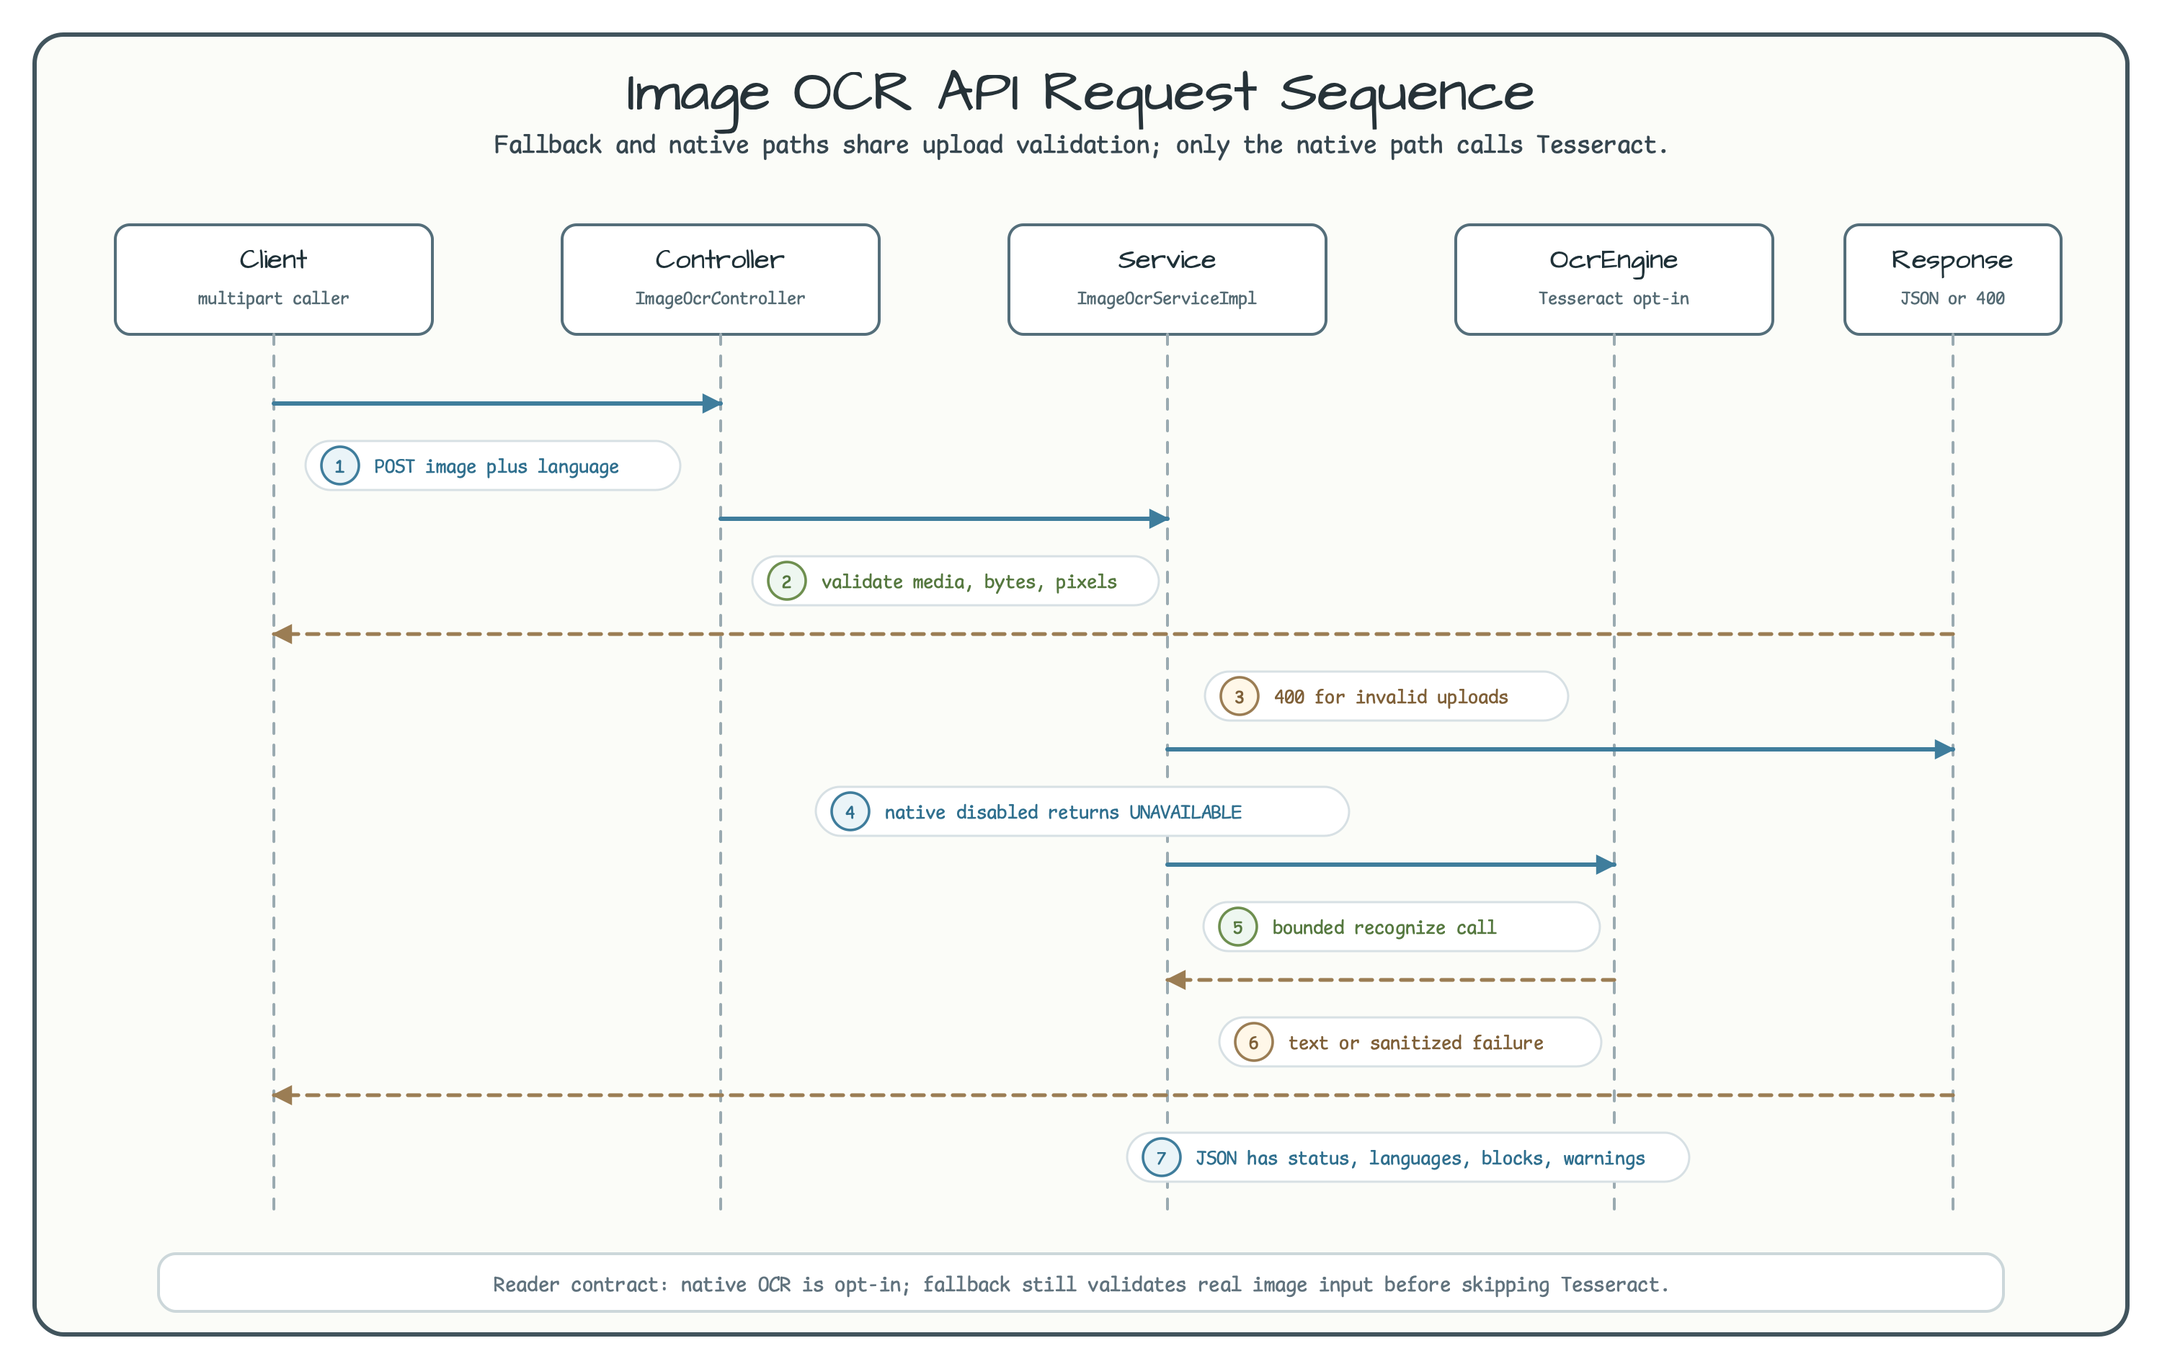
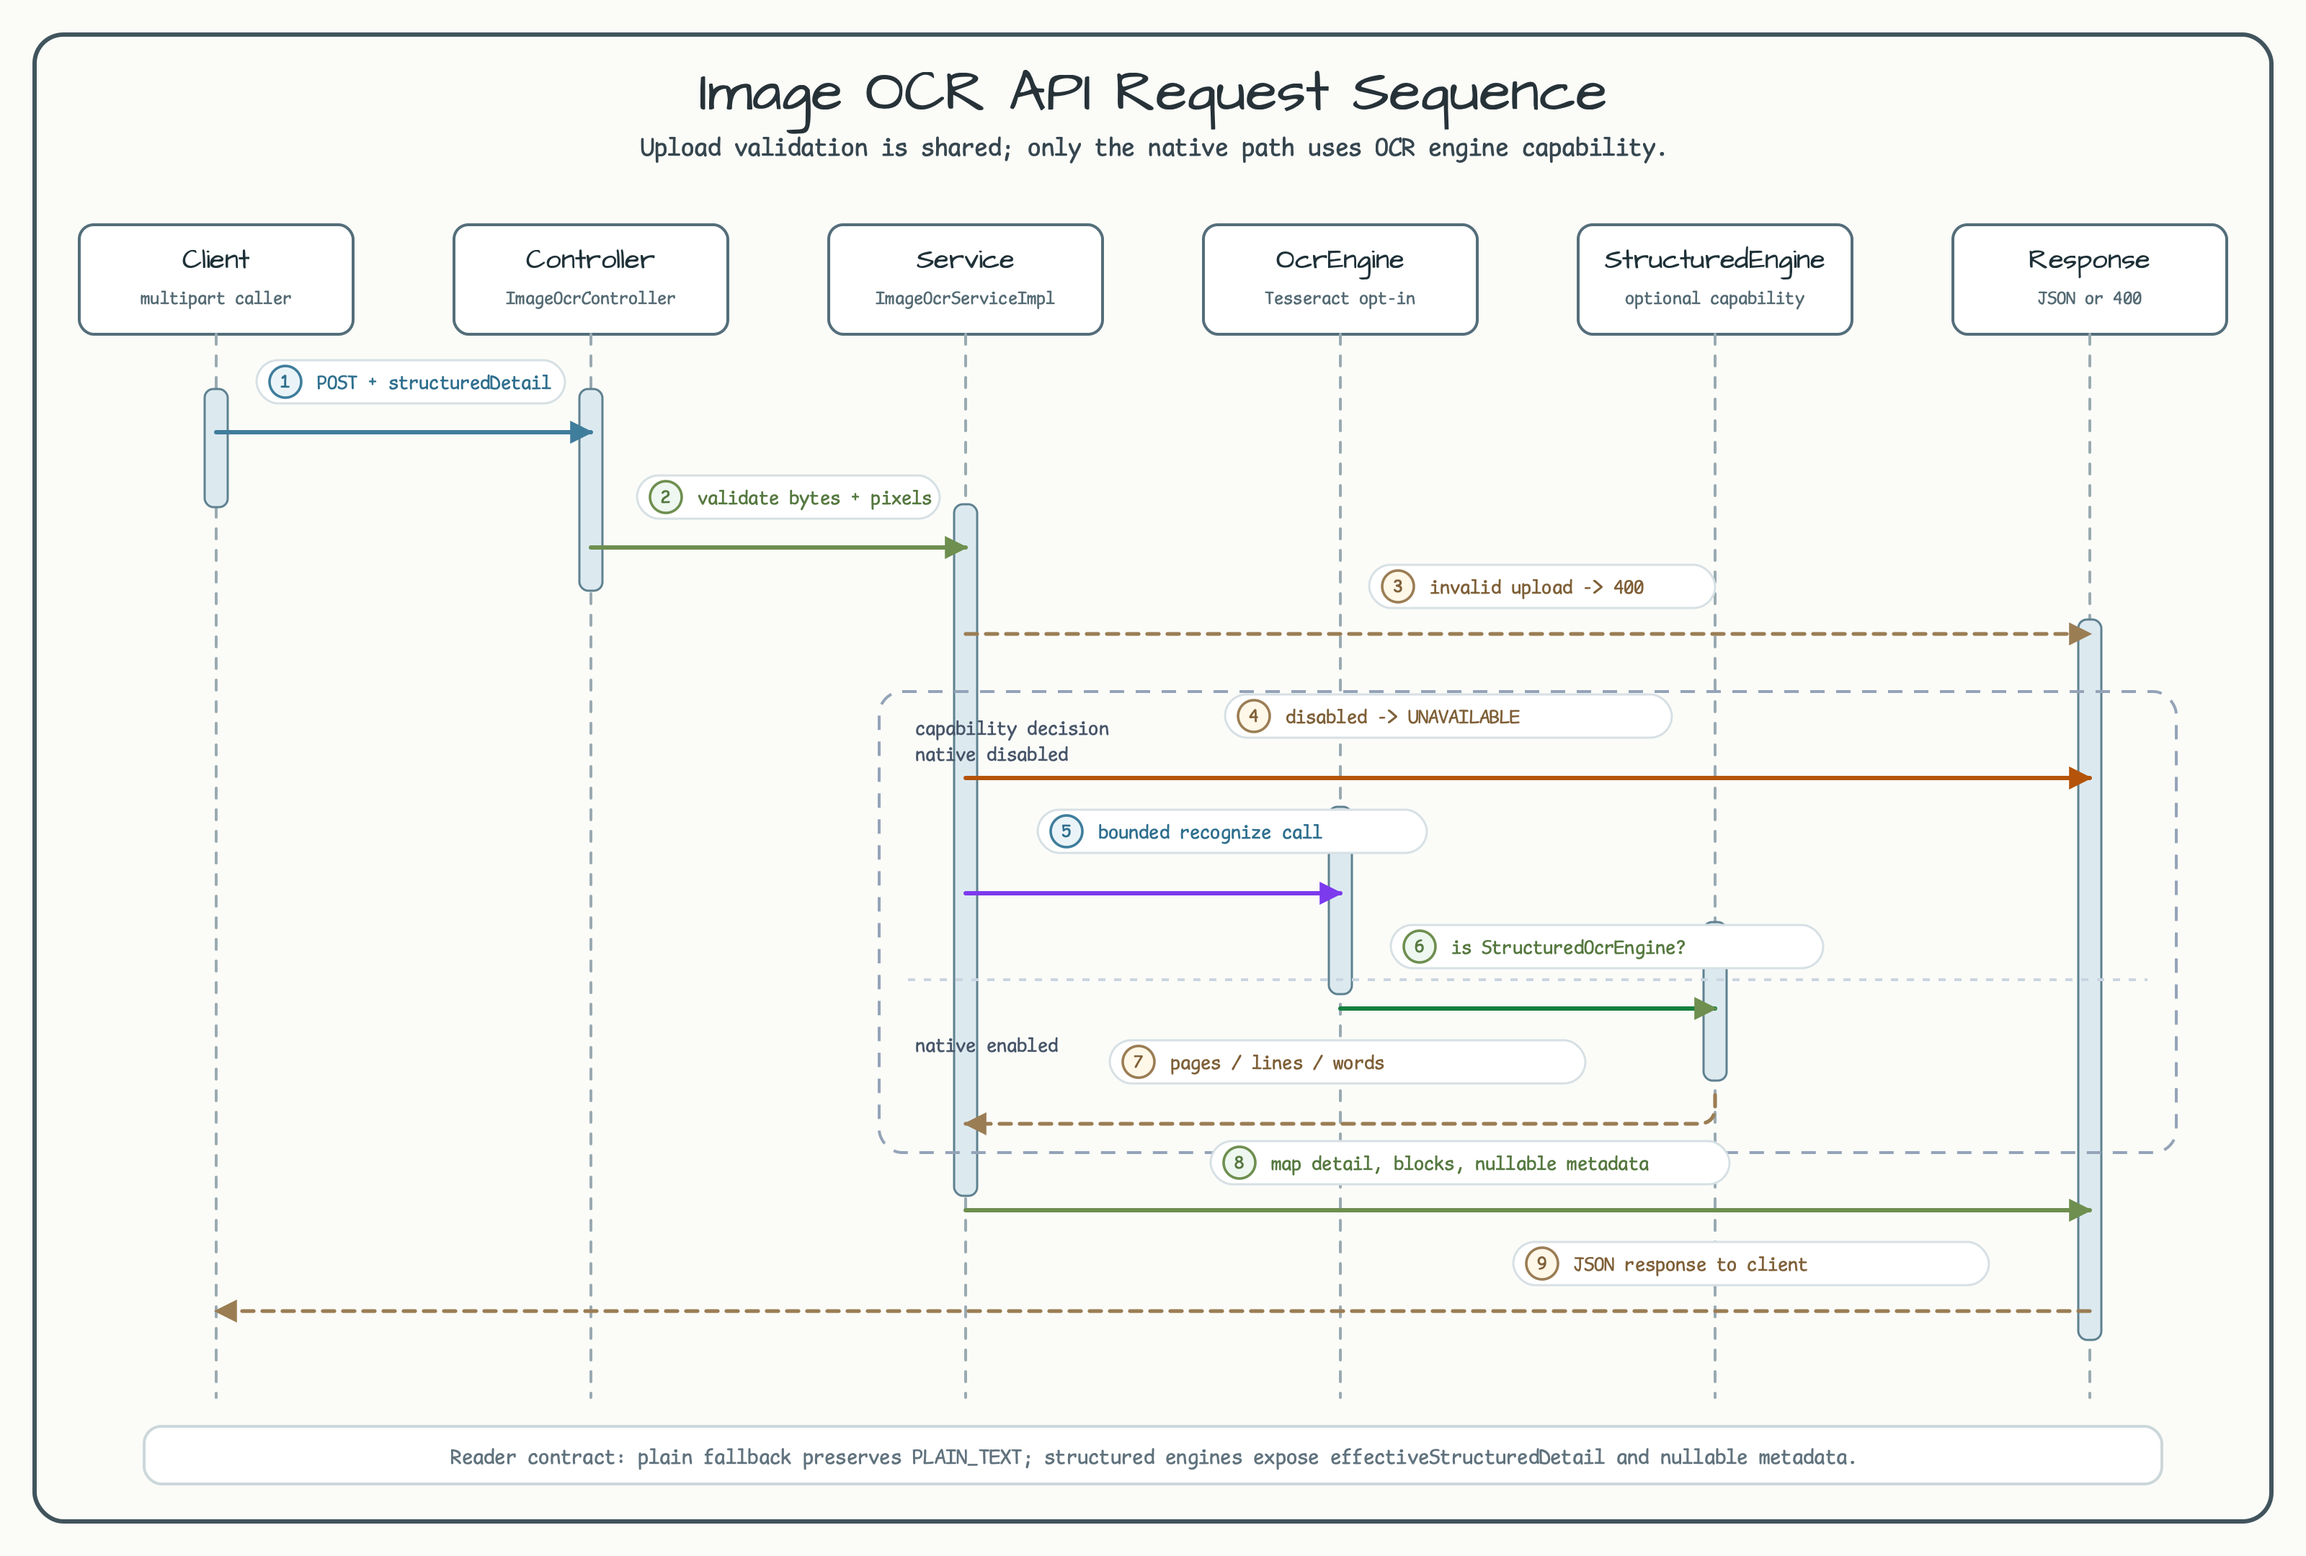
구조화 OCR 계약이 한·영 README 다이어그램에서 동일하게 보이도록 정비한다
README와 아키텍처·시퀀스 다이어그램을 source-equivalent 한·영 자산으로 맞추고,
검증기가 국문 폰트와 자산도 동일한 구조 게이트로 검사하도록 확장한다.

Constraint: 워크숍 문서와 다이어그램은 영문/국문 source-equivalent 자산을 유지해야 한다
Rejected: 저장소 전체 legacy diagram 재생성 | Issue #747 범위를 벗어나 기존 예외를 변경하기 때문
Confidence: high
Scope-risk: narrow
Directive: 구조화 OCR 응답 계약을 변경하면 두 locale 자산과 README를 함께 갱신한다
Tested: README/asset parity, semantic/XML/connector/arrowhead/geometry/endpoint/mixed-corner/sequence-style/visual audits, image-processing-ocr-api test
Not-tested: hosted CI와 merge 후 develop 동기화는 PR 단계에서 확인한다

diff --git a/image-processing/ocr-api/README.md b/image-processing/ocr-api/README.md
@@ -20,6 +20,9 @@ production upload service.
 The flow is top-to-bottom: `ImageOcrController` accepts multipart input,
 `ImageOcrServiceImpl` validates metadata and decoded pixels, then either
 short-circuits to a fallback response or calls a bounded native `OcrEngine`.
+The capability branch is explicit: a plain engine preserves `PLAIN_TEXT`, while
+`StructuredOcrEngine` maps `pages`, `lines`, and `words` without inventing
+non-null `confidence` or `boundingBox` values.
 
 ## Request Flow
 
@@ -29,7 +32,9 @@ The default smoke path validates a real decodable image, skips Tesseract, and
 returns `UNAVAILABLE`. Native OCR is opt-in through `workshop.ocr.native-enabled`
 or `-Docr.enabled=true`.
 Configuration and decoded-pixel limits use bluetape4k `require*` helpers, while
-public upload error messages remain explicit at the HTTP boundary.
+public upload error messages remain explicit at the HTTP boundary. The numbered
+sequence shows the invalid-upload `400` path, the native-disabled response, the
+runtime capability check, and the final response mapping in one contract.
 
 ## Endpoint
 
